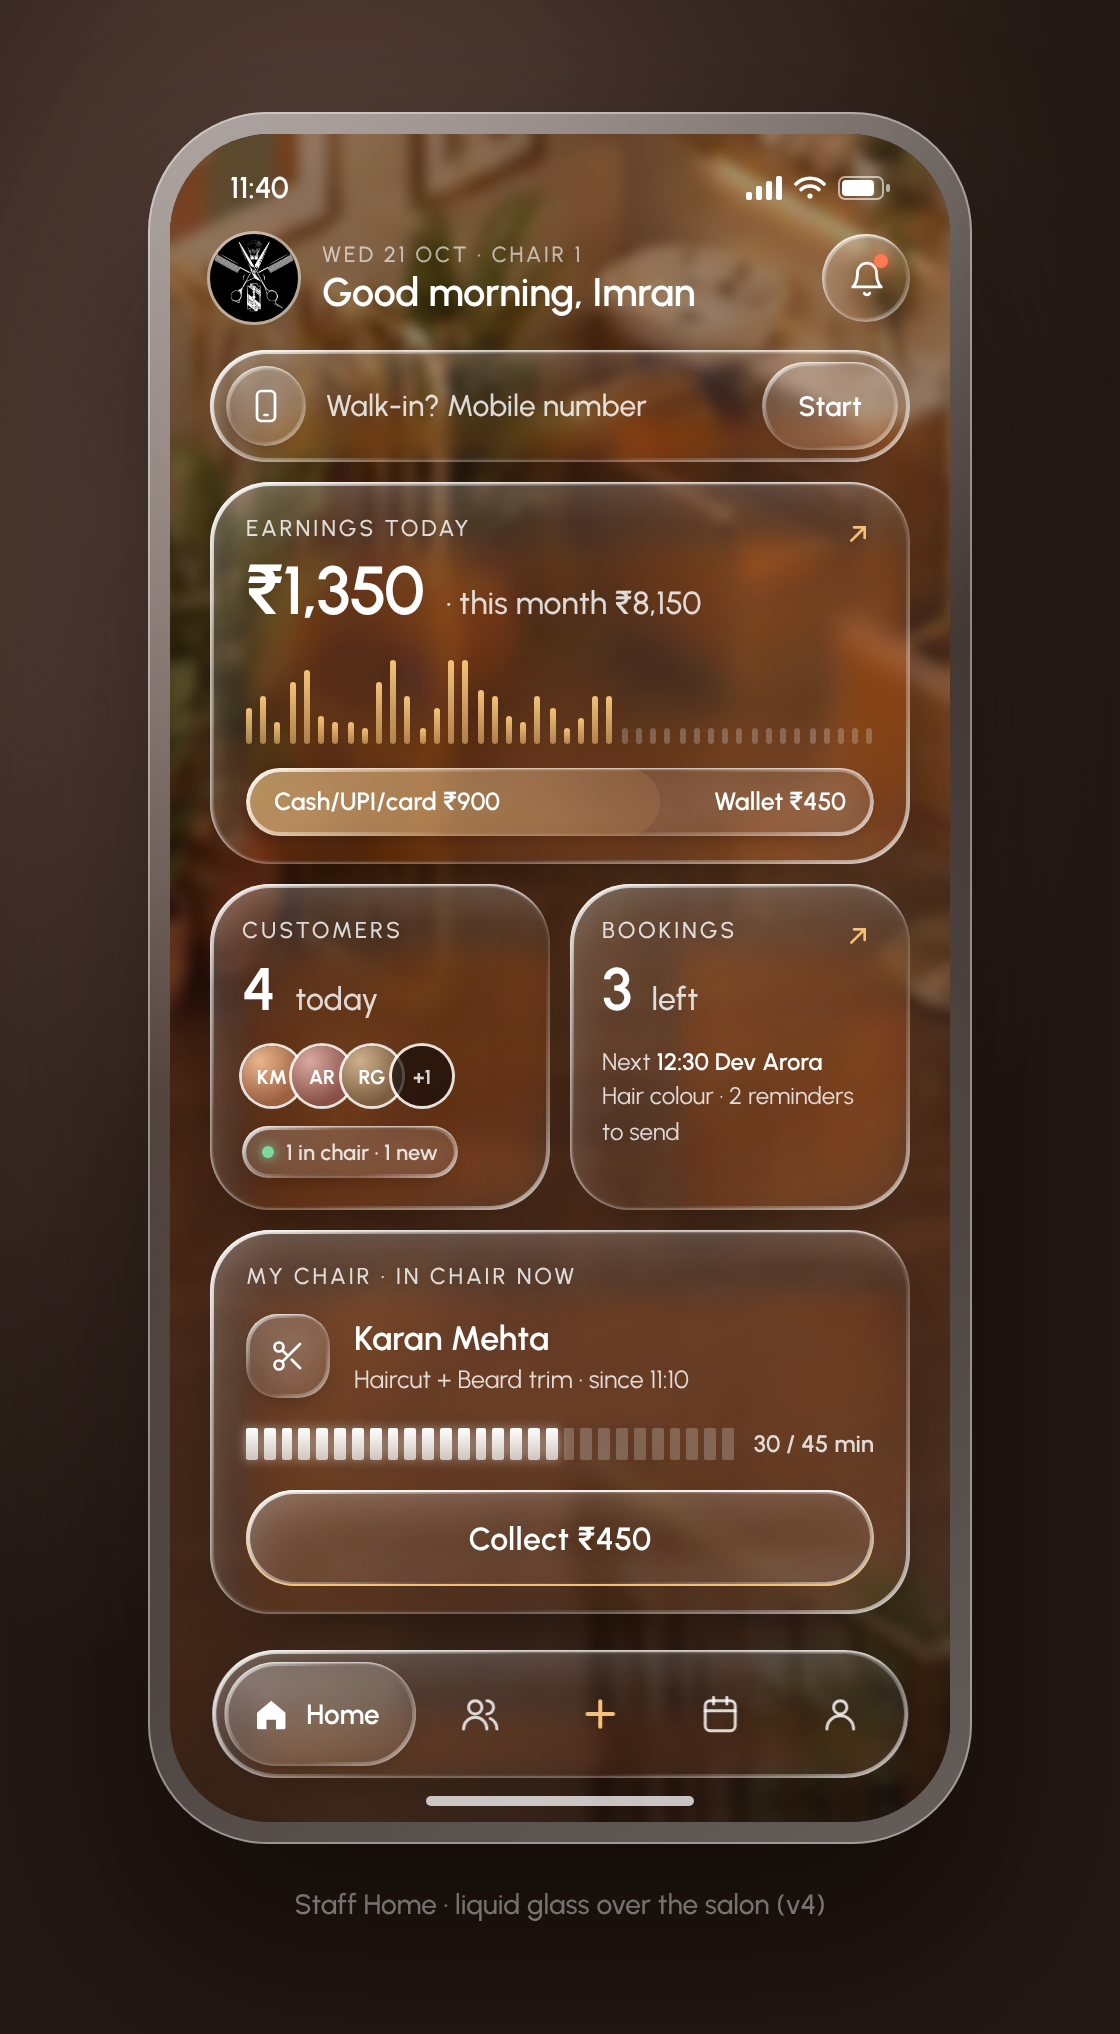
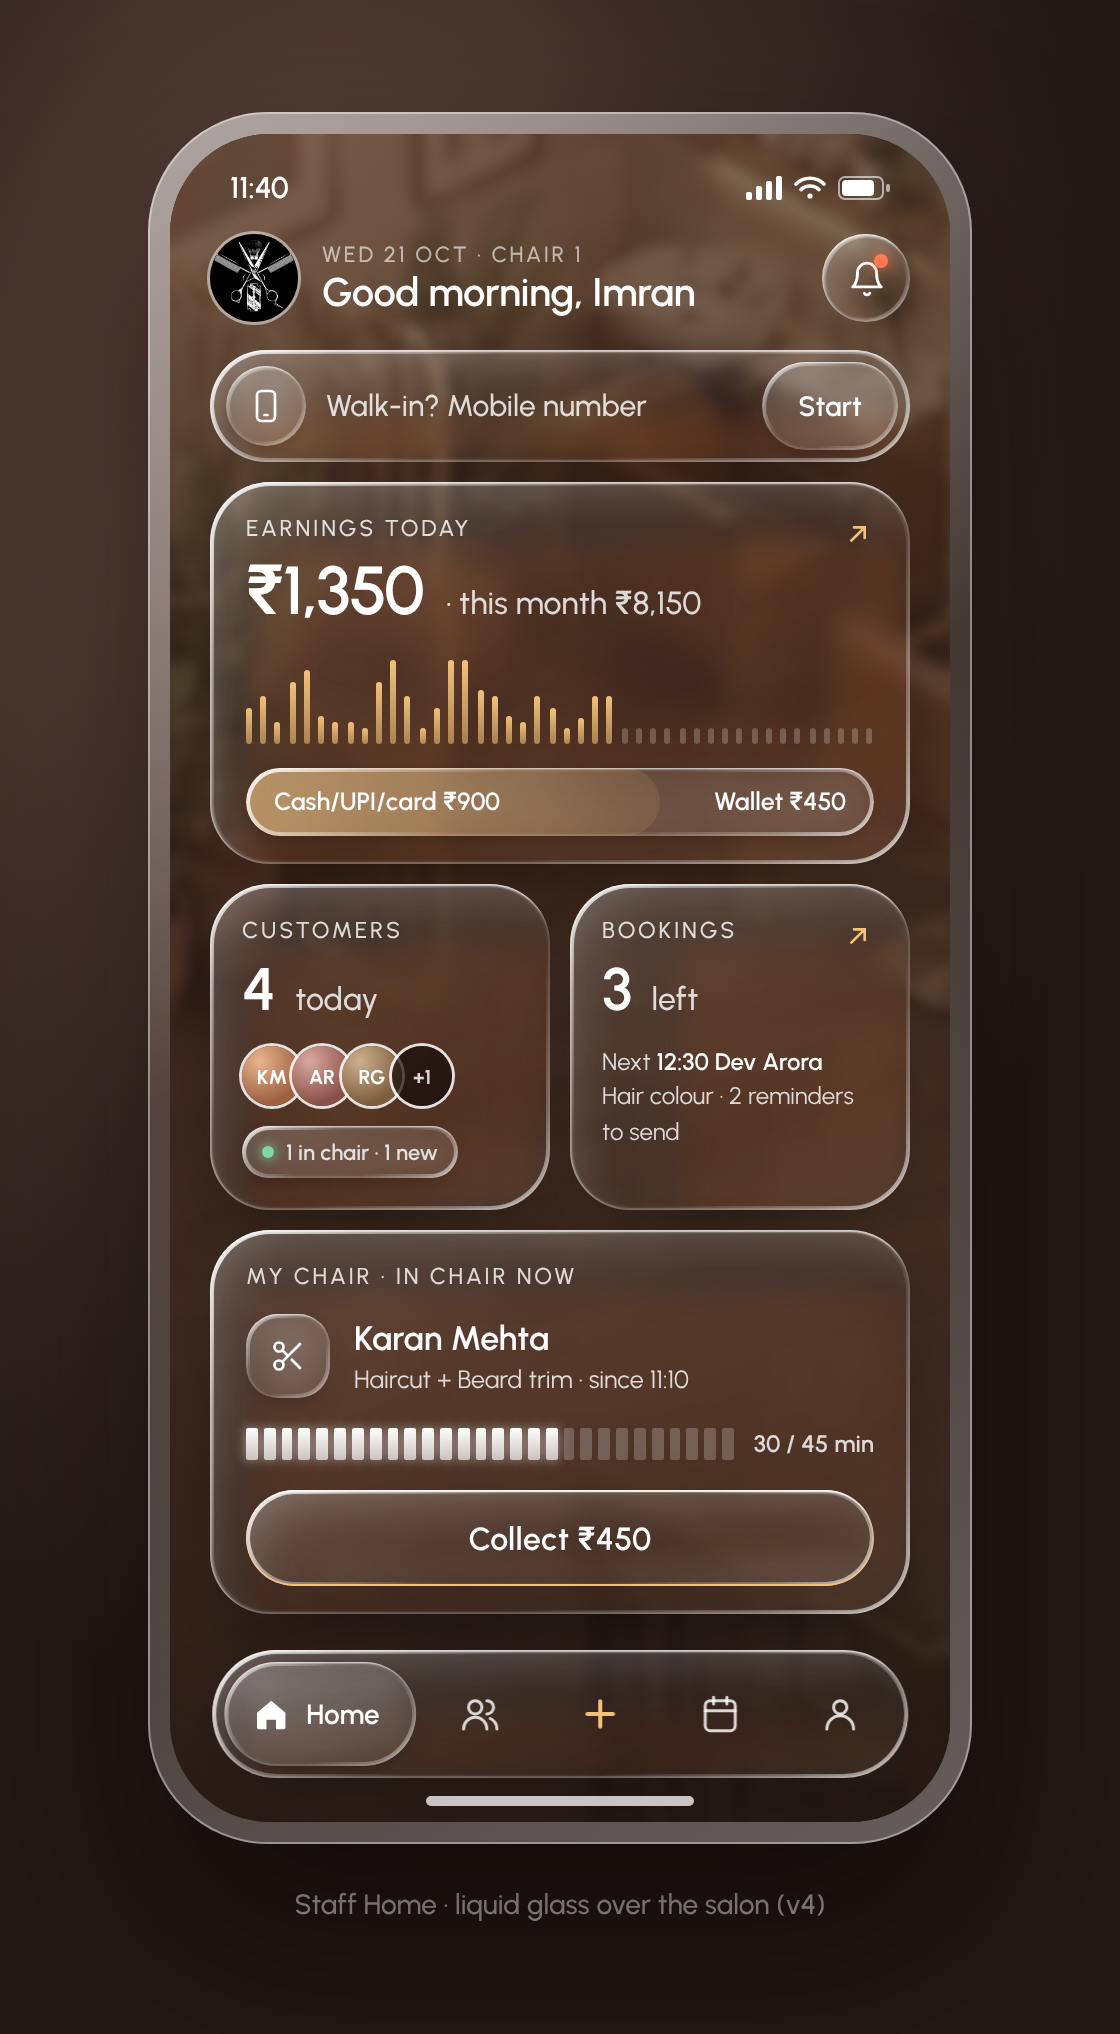
Liquid glass Home: brown fading wash over the salon backdrop; record the approved look
Claude-Session: https://claude.ai/code/session_01BjSSchZsy6gAdMxf188SpF

diff --git a/salon-mobile/design-studies/glass-home/staff-home-liquid-v4.html b/salon-mobile/design-studies/glass-home/staff-home-liquid-v4.html
@@ -58,10 +58,10 @@
   .screen { position: relative; width: 100%; height: 100%; border-radius: 50px; overflow: hidden; background: #2E211C; }
   /* the salon itself, blurred, is the photo behind the glass */
   .photo { position: absolute; inset: -40px; background: url(../../assets/live/plate2.webp) 38% 50% / auto 118% no-repeat;
-    filter: blur(3px) saturate(1.1) brightness(.82); transform: scale(1.02); }
+    filter: blur(3px) saturate(.85) brightness(.7) sepia(.25); transform: scale(1.02); }
   .photo2 { position: absolute; inset: 0; background:
-      linear-gradient(180deg, rgba(40,26,20,.25) 0%, rgba(40,26,20,.40) 45%, rgba(30,20,16,.72) 100%),
-      radial-gradient(80% 50% at 80% 30%, rgba(255,200,150,.25), rgba(255,200,150,0) 70%); }
+      radial-gradient(90% 45% at 20% 0%, rgba(150,108,88,.25), rgba(150,108,88,0) 70%),
+      linear-gradient(180deg, rgba(74,50,40,.55) 0%, rgba(62,42,34,.62) 40%, rgba(48,32,26,.78) 75%, rgba(36,24,19,.9) 100%); }
 
   .content { position: relative; z-index: 1; padding: 0 20px; }
   .status { display: flex; justify-content: space-between; align-items: center; padding: 18px 10px 0; font-weight: 600; font-size: 15px; }

diff --git a/salon-mobile/BUILD-SPEC.md b/salon-mobile/BUILD-SPEC.md
@@ -45,6 +45,7 @@ Where things live:
 | 1.2 | Brand assets: salon logo + intro video (`assets/brand/`) | Have files; licence action pending (see 9.6) |
 | 1.3 | Other style boards (Vulcanico/Noturno, the bold styles) were **explorations only**; not used | Decided |
 | 1.4 | Text contrast passes WCAG AA (`node scripts/contrast-check.mjs`) | Logic |
+| 1.5 | **Liquid glass look (user, 22 Oct: "the glass is perfect")**: clear neutral glass with a bevelled rim over the blurred salon picture under a fading brown wash; white text, small CAPITAL labels with one big number per card, thin gold line charts, glass pills inside cards, gold-outline glass button for the main action, glass bottom menu with a brighter glass pill for the current page. Reference: `design-studies/glass-home/staff-home-liquid-v4.png`. Replaces the brown glass look and redesign directions A/B/C once the other screens are approved. Build later (11.0) | Approved (Home) · other screens to show |
 
 ## 2. Opening the app
 | # | Item | Status |
@@ -164,7 +165,7 @@ Where things live:
 ## 11. After the app is built
 | # | Item | Status |
 |---|---|---|
-| 11.0 | **Build later, all together (user, 22 Oct: "do not build now, just plan and record; it will be built once after everything I told")**. Planned, not started; build only when the user says so: (a) live sync between phones, backup and server checks: `SYNC-PLAN.md` (decisions 10.7, 10.12, 10.13 first); (b) WhatsApp Cloud API sending and plans/prices: `../founder/RUNNING-COSTS.md`; (c) buyer-panel app changes: `../founder/PANEL-FEEDBACK.md` (quick bill, selfie on/off, bill without mobile number, Hindi, data import); (d) fresh-start fixes: `FRESH-START-CHECK.md`; (e) redesign once A, B or C is chosen: `design-studies/redesign/` | Planned · waiting for the user's go |
+| 11.0 | **Build later, all together (user, 22 Oct: "do not build now, just plan and record; it will be built once after everything I told")**. Planned, not started; build only when the user says so: (a) live sync between phones, backup and server checks: `SYNC-PLAN.md` (decisions 10.7, 10.12, 10.13 first); (b) WhatsApp Cloud API sending and plans/prices: `../founder/RUNNING-COSTS.md`; (c) buyer-panel app changes: `../founder/PANEL-FEEDBACK.md` (quick bill, selfie on/off, bill without mobile number, Hindi, data import); (d) fresh-start fixes: `FRESH-START-CHECK.md`; (e) liquid glass look across all screens (1.5): `design-studies/glass-home/` | Planned · waiting for the user's go |
 | 11.1 | **Launch / promo video** of the app to pitch salon owners (Remotion-style, dark and gold, real screens; see `design-studies/prompt-motion-notes.md`) | Decided: after the app |
 
 ---
